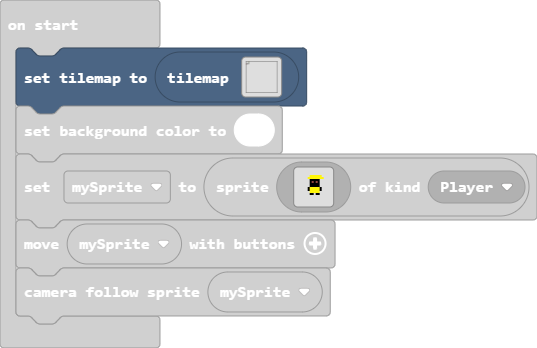
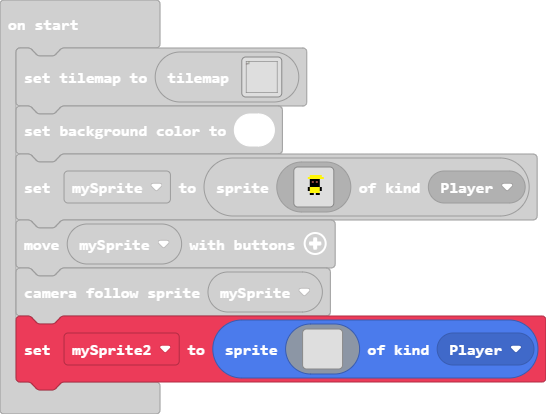
Update main.blocks, main.ts

diff --git a/main.ts b/main.ts
@@ -20,3 +20,21 @@ let mySprite = sprites.create(img`
     `, SpriteKind.Player)
 controller.moveSprite(mySprite)
 scene.cameraFollowSprite(mySprite)
+let mySprite2 = sprites.create(img`
+    . . . . . . . . . . . . . . . . 
+    . . . . . . . . . . . . . . . . 
+    . . . . . . . . . . . . . . . . 
+    . . . . . . . . . . . . . . . . 
+    . . . . . . . . . . . . . . . . 
+    . . . . . . . . . . . . . . . . 
+    . . . . . . . . . . . . . . . . 
+    . . . . . . . . . . . . . . . . 
+    . . . . . . . . . . . . . . . . 
+    . . . . . . . . . . . . . . . . 
+    . . . . . . . . . . . . . . . . 
+    . . . . . . . . . . . . . . . . 
+    . . . . . . . . . . . . . . . . 
+    . . . . . . . . . . . . . . . . 
+    . . . . . . . . . . . . . . . . 
+    . . . . . . . . . . . . . . . . 
+    `, SpriteKind.Player)
